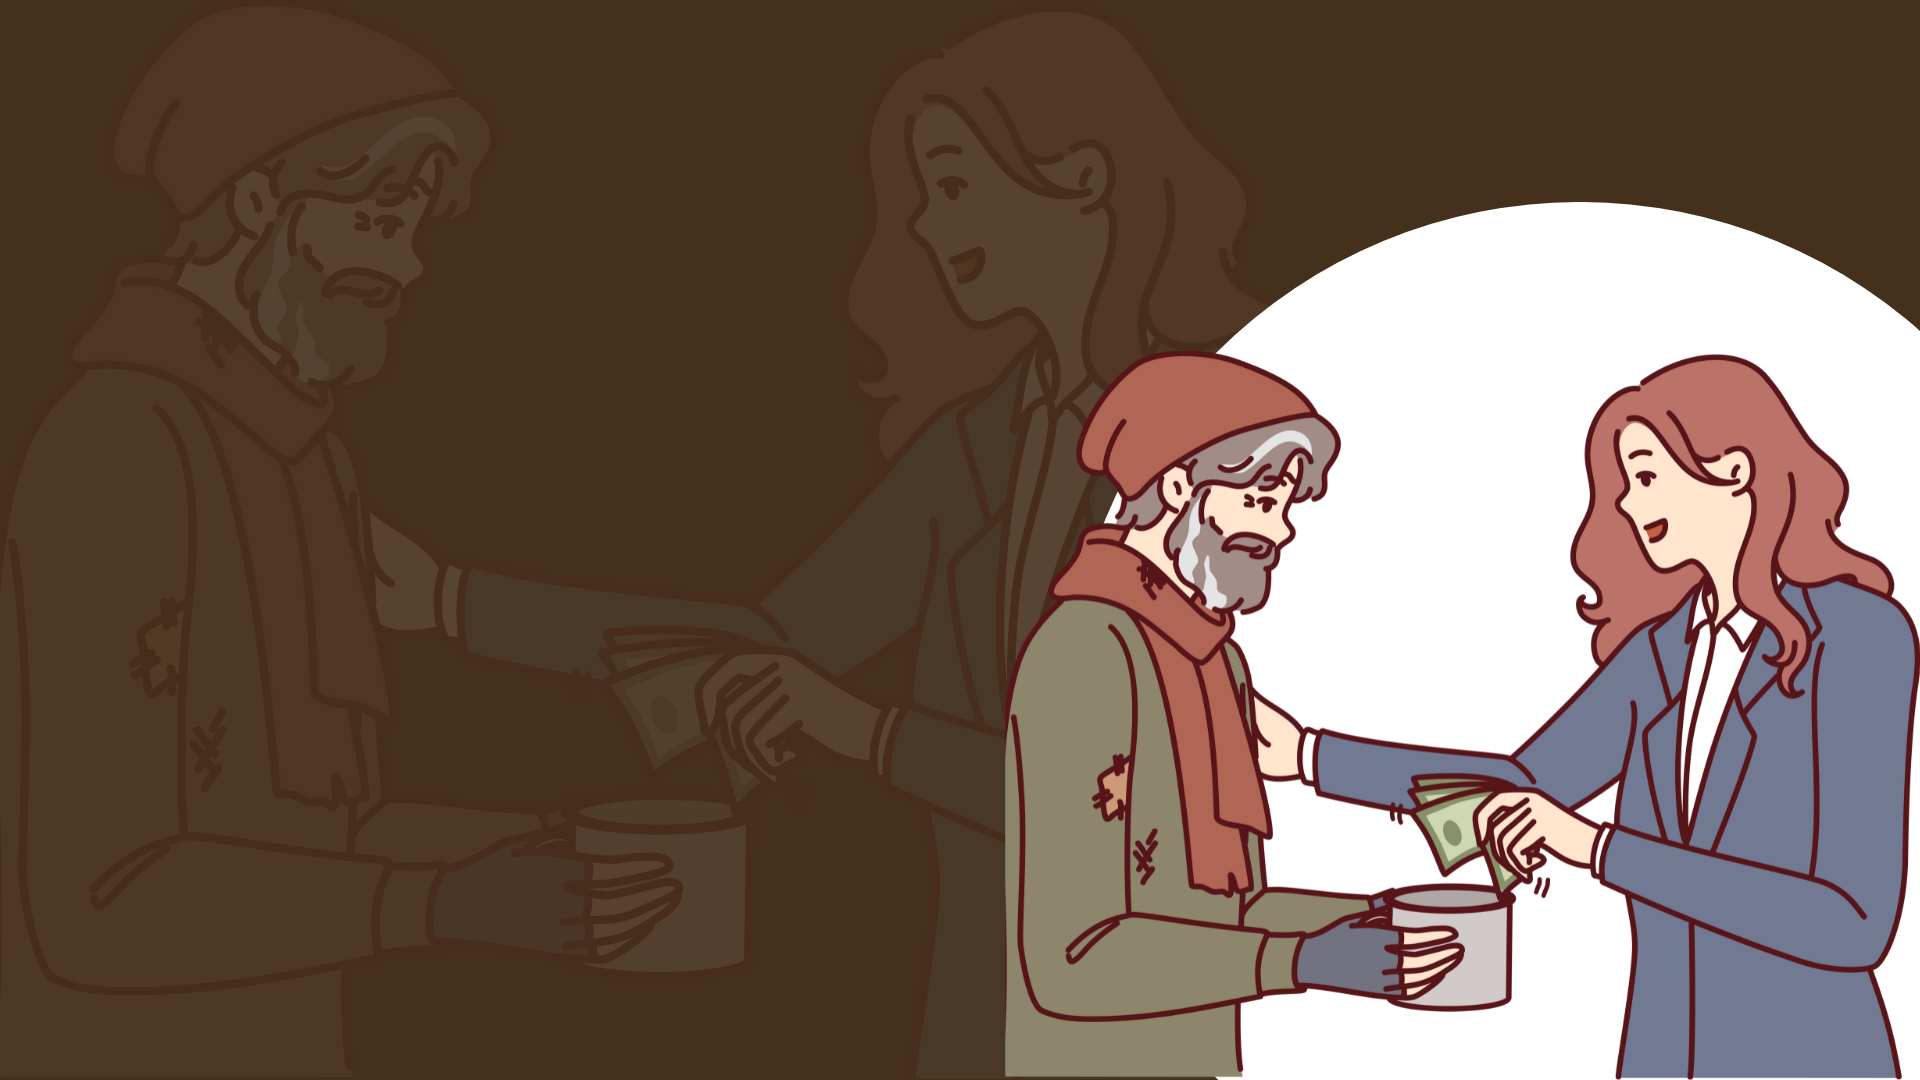
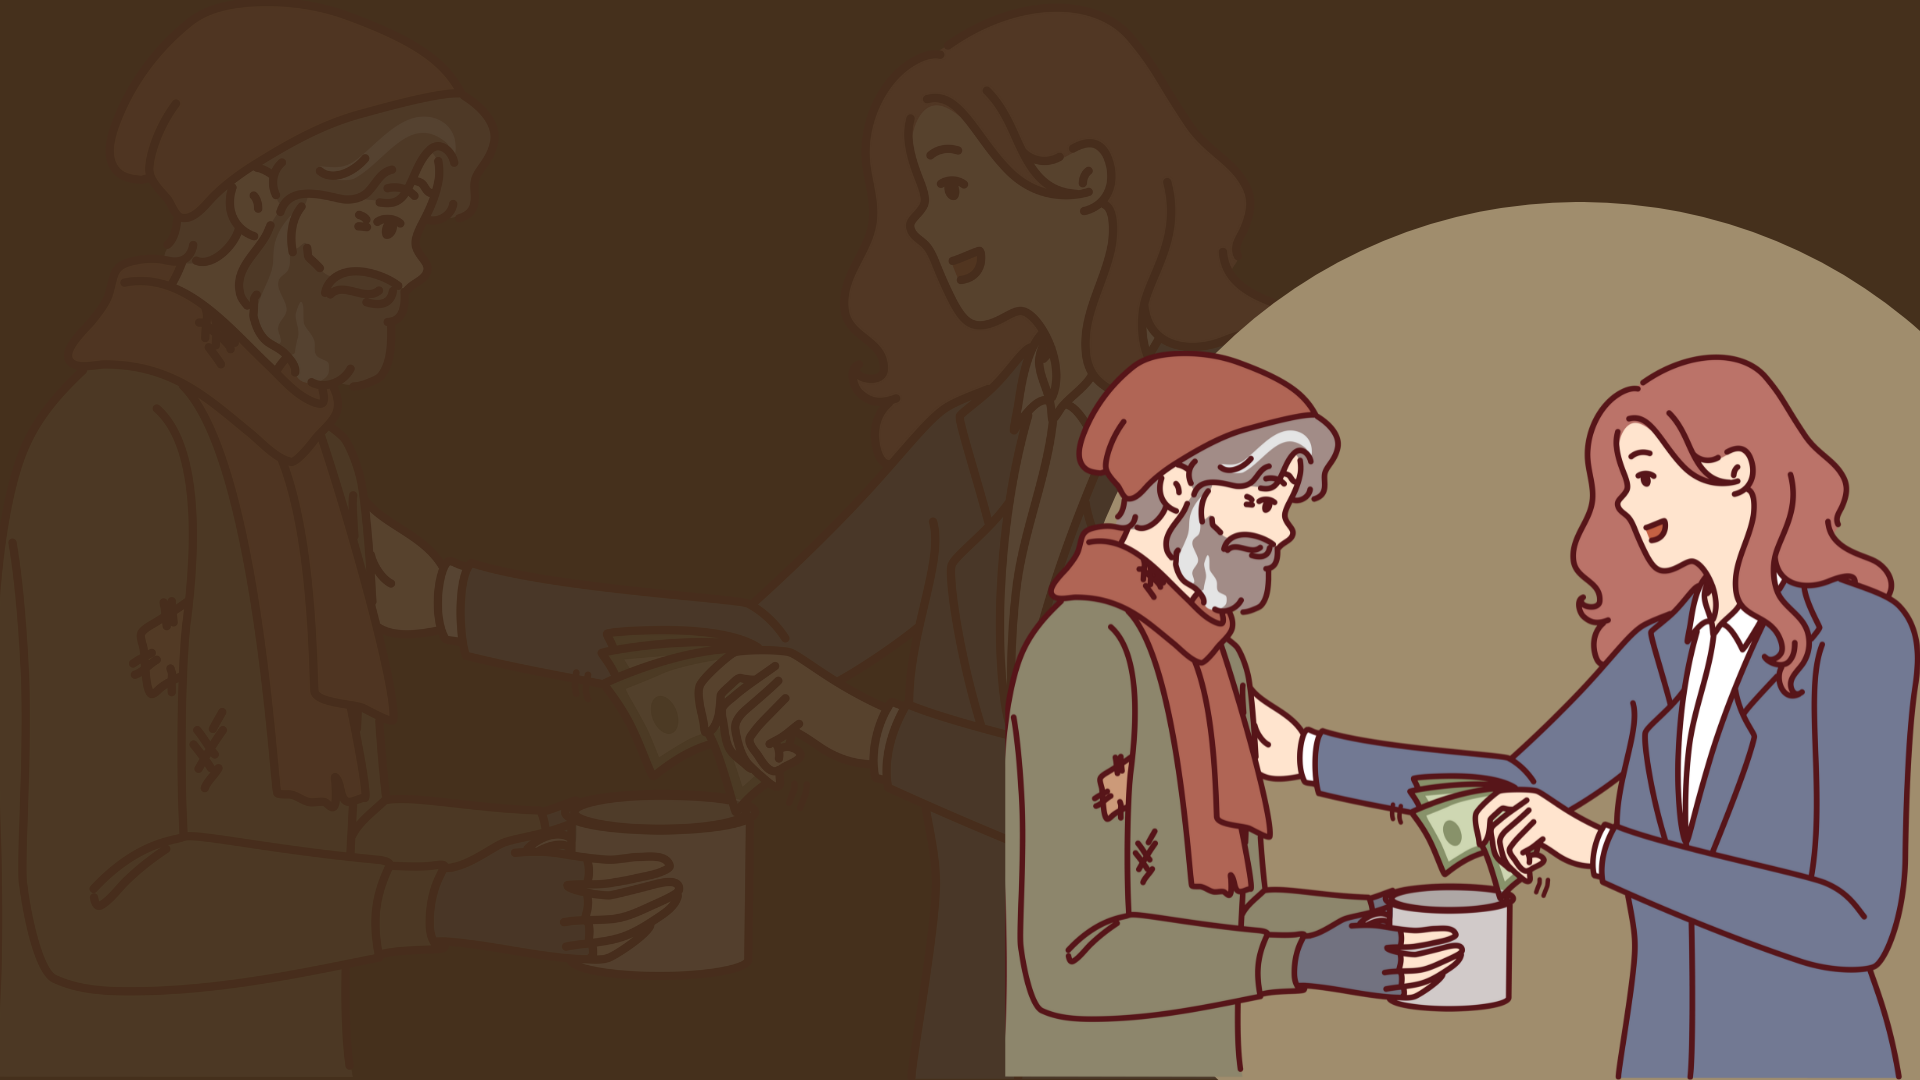
pp

diff --git a/components/parallax/thirdParallax.tsx b/components/parallax/thirdParallax.tsx
@@ -1,11 +1,8 @@
 import React from "react";
-import Image from "next/image";
 import { LoremIpsum } from "lorem-ipsum";
-import Content from "../content";
-import TitleParallax from "../titleParallax";
 import SkeletonParallax from "../skeletonParallax";
 
-const firstParallax = () => {
+const thirdParallax = () => {
   const lorem = new LoremIpsum({
     sentencesPerParagraph: {
       max: 8,
@@ -17,7 +14,6 @@ const firstParallax = () => {
     },
   });
   // let text = lorem.generateParagraphs(1);
-
   const text = [
     "Kemiskinan adalah masalah global yang mengakar dan mempengaruhi jutaan orang di seluruh dunia. Ini adalah masalah multidimensi yang mencakup faktor ekonomi, sosial dan politik. Meskipun penyebab dan akibat kemiskinan berbeda-beda di berbagai wilayah dan negara, pemahaman terhadap kompleksitas kemiskinan sangatlah penting untuk mengembangkan strategi yang efektif dalam pengentasan kemiskinan.",
     "Kemiskinan dapat didefinisikan sebagai keadaan kekurangan dimana individu atau rumah tangga kekurangan sumber daya dan kemampuan yang diperlukan untuk memenuhi kebutuhan dasar mereka dan menikmati standar hidup yang layak. Kebutuhan dasar tersebut meliputi akses terhadap pangan, air bersih, pendidikan, layanan kesehatan, dan tempat tinggal.",
@@ -29,12 +25,12 @@ const firstParallax = () => {
   return (
     <SkeletonParallax
       text={text}
-      titleParallax="Memahami Kemiskinan"
-      color="white"
-      bg="bg-bg1"
-      bgHero="bg-hero1"
+      titleParallax="Mengukur Kemiskinan"
+      color="black"
+      bg="bg-bg3"
+      bgHero="bg-hero3"
     ></SkeletonParallax>
   );
 };
 
-export default firstParallax;
+export default thirdParallax;

diff --git a/components/parallax/fourthParallax.tsx b/components/parallax/fourthParallax.tsx
@@ -1,11 +1,8 @@
 import React from "react";
-import Image from "next/image";
 import { LoremIpsum } from "lorem-ipsum";
-import Content from "../content";
-import TitleParallax from "../titleParallax";
 import SkeletonParallax from "../skeletonParallax";
 
-const firstParallax = () => {
+const fourthParallax = () => {
   const lorem = new LoremIpsum({
     sentencesPerParagraph: {
       max: 8,
@@ -17,7 +14,6 @@ const firstParallax = () => {
     },
   });
   // let text = lorem.generateParagraphs(1);
-
   const text = [
     "Kemiskinan adalah masalah global yang mengakar dan mempengaruhi jutaan orang di seluruh dunia. Ini adalah masalah multidimensi yang mencakup faktor ekonomi, sosial dan politik. Meskipun penyebab dan akibat kemiskinan berbeda-beda di berbagai wilayah dan negara, pemahaman terhadap kompleksitas kemiskinan sangatlah penting untuk mengembangkan strategi yang efektif dalam pengentasan kemiskinan.",
     "Kemiskinan dapat didefinisikan sebagai keadaan kekurangan dimana individu atau rumah tangga kekurangan sumber daya dan kemampuan yang diperlukan untuk memenuhi kebutuhan dasar mereka dan menikmati standar hidup yang layak. Kebutuhan dasar tersebut meliputi akses terhadap pangan, air bersih, pendidikan, layanan kesehatan, dan tempat tinggal.",
@@ -29,12 +25,12 @@ const firstParallax = () => {
   return (
     <SkeletonParallax
       text={text}
-      titleParallax="Memahami Kemiskinan"
+      titleParallax="Mengukur Kemiskinan"
       color="white"
-      bg="bg-bg1"
-      bgHero="bg-hero1"
+      bg="bg-bg4"
+      bgHero="bg-hero4"
     ></SkeletonParallax>
   );
 };
 
-export default firstParallax;
+export default fourthParallax;

diff --git a/app/page.tsx b/app/page.tsx
@@ -1,13 +1,28 @@
-import Image from "next/image";
+"use client";
+import React, { useEffect } from "react";
 import FirstParallax from "@/components/parallax/firstParallax";
 import SecondParallax from "@/components/parallax/secondParallax";
+import ThirdParallax from "@/components/parallax/thirdParallax";
+import FourthParallax from "@/components/parallax/fourthParallax";
+import FifthParallax from "@/components/parallax/fifthParallax";
+import SixthParallax from "@/components/parallax/sixthParallax";
+import AOS from "aos";
+import "aos/dist/aos.css";
+
 import Logo from "@/components/logo";
 
 export default function Home() {
+  useEffect(() => {
+    AOS.init();
+  }, []);
   return (
     <main className="flex min-h-screen flex-col items-center justify-between ">
       <FirstParallax></FirstParallax>
       <SecondParallax></SecondParallax>
+      <ThirdParallax></ThirdParallax>
+      <FourthParallax></FourthParallax>
+      <FifthParallax></FifthParallax>
+      <SixthParallax></SixthParallax>
     </main>
   );
 }

diff --git a/app/layout.tsx b/app/layout.tsx
@@ -4,6 +4,7 @@ import { Inter } from "next/font/google";
 import { Poppins } from "next/font/google";
 import localFont from "next/font/local";
 import Navbar from "@/components/navbar";
+import Footer from "@/components/footer";
 
 const inter = Inter({ subsets: ["latin"] });
 const poppins = Poppins({ weight: ["400", "600", "700"], subsets: ["latin"] });
@@ -38,6 +39,18 @@ export default function RootLayout({
         </header>
 
         {children}
+
+        <footer className="bg-neutral-200 text-center dark:bg-neutral-700 lg:text-left">
+          <div className="p-4 text-center text-neutral-700 dark:text-neutral-200">
+            © 2023 Copyright :
+            <a
+              className="px-2 text-neutral-800 dark:text-neutral-400"
+              href="https://tailwind-elements.com/"
+            >
+              BPS Kabupaten Tanah Datar
+            </a>
+          </div>
+        </footer>
       </body>
     </html>
   );

diff --git a/components/parallax/fifthParallax.tsx b/components/parallax/fifthParallax.tsx
@@ -1,11 +1,8 @@
 import React from "react";
-import Image from "next/image";
 import { LoremIpsum } from "lorem-ipsum";
-import Content from "../content";
-import TitleParallax from "../titleParallax";
 import SkeletonParallax from "../skeletonParallax";
 
-const firstParallax = () => {
+const fifthParallax = () => {
   const lorem = new LoremIpsum({
     sentencesPerParagraph: {
       max: 8,
@@ -30,11 +27,11 @@ const firstParallax = () => {
     <SkeletonParallax
       text={text}
       titleParallax="Memahami Kemiskinan"
-      color="white"
-      bg="bg-bg1"
-      bgHero="bg-hero1"
+      color="black"
+      bg="bg-bg5"
+      bgHero="bg-hero5"
     ></SkeletonParallax>
   );
 };
 
-export default firstParallax;
+export default fifthParallax;

diff --git a/components/parallax/sixthParallax.tsx b/components/parallax/sixthParallax.tsx
@@ -1,11 +1,8 @@
 import React from "react";
-import Image from "next/image";
 import { LoremIpsum } from "lorem-ipsum";
-import Content from "../content";
-import TitleParallax from "../titleParallax";
 import SkeletonParallax from "../skeletonParallax";
 
-const firstParallax = () => {
+const sixthParallax = () => {
   const lorem = new LoremIpsum({
     sentencesPerParagraph: {
       max: 8,
@@ -30,11 +27,11 @@ const firstParallax = () => {
     <SkeletonParallax
       text={text}
       titleParallax="Memahami Kemiskinan"
-      color="white"
-      bg="bg-bg1"
-      bgHero="bg-hero1"
+      color="black"
+      bg="bg-bg6"
+      bgHero="bg-hero6"
     ></SkeletonParallax>
   );
 };
 
-export default firstParallax;
+export default sixthParallax;

diff --git a/components/titleParallax.tsx b/components/titleParallax.tsx
@@ -1,11 +1,23 @@
 import React from "react";
+import localFont from "next/font/local";
+
+const SoccerLeague = localFont({
+  src: "../app/font/soccer_league/SoccerLeague.ttf",
+  display: "swap",
+});
+
+const humnst777 = localFont({
+  src: "../app/font/humnst777_blk_bt/HUM777K.ttf",
+  display: "swap",
+});
 
 const titleParallax = (props: any) => {
   const { titleParallax, color } = props;
   return (
     <div>
       <div
-        className={`text-${color} text-center py-4 text-4xl md:text-5xl lg:text-6xl `}
+        data-aos="slide-left"
+        className={`${humnst777.className} text-${color} text-center pb-4 pt-8  text-4xl md:text-5xl lg:text-6xl `}
       >
         {titleParallax}
       </div>

diff --git a/components/content.tsx b/components/content.tsx
@@ -7,8 +7,14 @@ type Props = {
 
 const Content = ({ text }: Props) => {
   return (
-    <div className="lg:mx-48 mx-4 my-8 border-2 border-black bg-white rounded-xl bg-opacity-80">
-      <div className="py-2 lg:py-4 px-4 lg:px-16 text-justify ">{text}</div>
+    <div className="lg:mx-36 xl:mx-80 mx-4 my-8 border-2 border-black bg-white rounded-xl bg-opacity-80">
+      <div
+        data-aos="zoom-in"
+        data-aos-once="true"
+        className=" py-2 lg:py-4 px-4 lg:px-10 text-justify "
+      >
+        {text}
+      </div>
     </div>
   );
 };

diff --git a/components/navbar.tsx b/components/navbar.tsx
@@ -12,7 +12,10 @@ import Cobaajadulu from "@/public/assets/img/Logo Mockup Coba dulu Aja.png";
 const Navbar = () => {
   return (
     // bg-opacity-70 bg-gray-800
-    <nav className="bg-gradient-to-b from-black  p-4 z-10 fixed top-0  w-full">
+    <nav
+      data-aos="fade-down"
+      className="bg-gradient-to-b from-black  p-4 z-10 fixed top-0  w-full pb-8"
+    >
       <div className="container mx-auto flex justify-between items-center">
         <Link href="/" className="text-white font-bold text-lg ">
           <Logo width={37} height={45} />

diff --git a/components/skeletonParallax.tsx b/components/skeletonParallax.tsx
@@ -25,7 +25,7 @@ const skeletonParallax = ({
   }
 
   return (
-    <div className={`${bg}`}>
+    <div className={`${bg} `}>
       <div
         className={`xl:bg-cover text-black bg-fixed bg-center bg-no-repeat ${bgHero} bg-contain justify-center items-center `}
       >

diff --git a/components/footer.tsx b/components/footer.tsx
@@ -1,0 +1,7 @@
+import React from "react";
+
+const footer = () => {
+  return <div>footer</div>;
+};
+
+export default footer;
